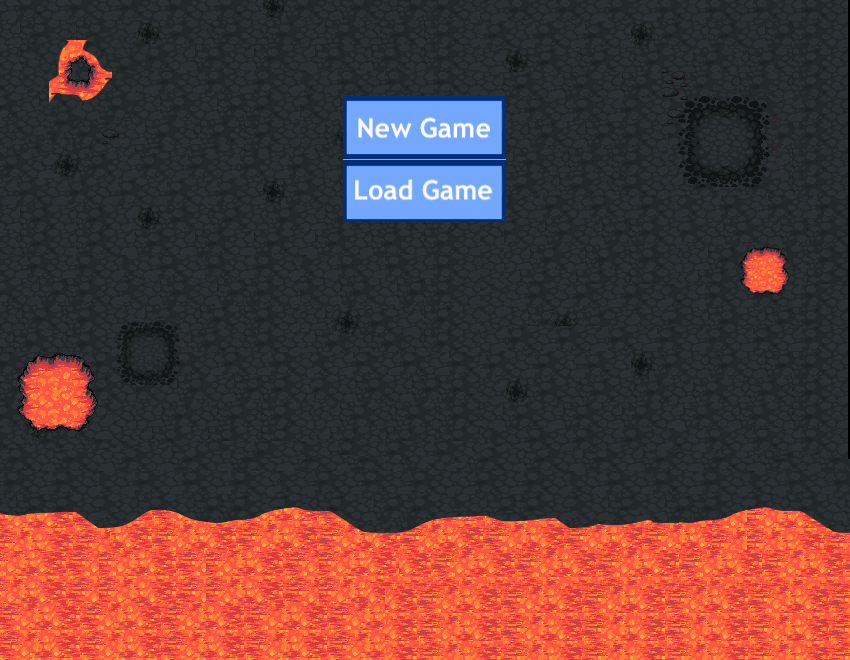
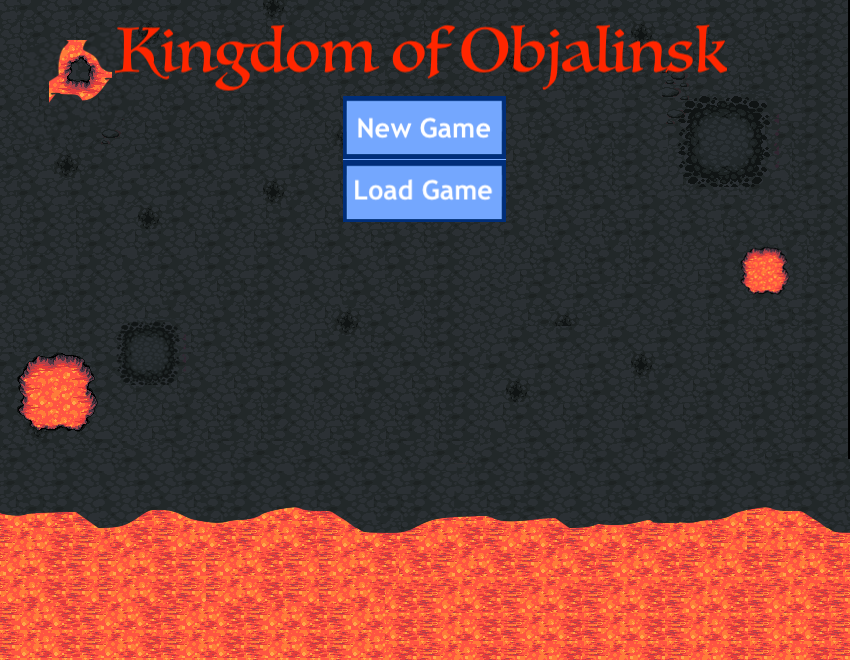
Added readme file

Changed region(s): [[0.1224, 0.0303, 0.8565, 0.1515]]

diff --git a/Hero_RPG_V3_Pygame/hero_rpg_pygame.py b/Hero_RPG_V3_Pygame/hero_rpg_pygame.py
@@ -32,7 +32,7 @@ def main():
     height = 670
     pygame.init()
     screen = pygame.display.set_mode((width, height))
-    pygame.display.set_caption('My Game')
+    pygame.display.set_caption('Kingdom of Objalinsk')
     clock = pygame.time.Clock()
 
     # ************* IMAGES *******************

diff --git a/Hero_RPG_V3_Pygame/readme.md b/Hero_RPG_V3_Pygame/readme.md
@@ -1,0 +1,86 @@
+# Hero RPG V3
+
+This game is a pygame version of my Hero RPG V2 text RPG game. https://github.com/Adrian-Jablonski/python-exercises/tree/master/Hero_RPG_V2
+
+## GamePlay:
+
+### 1. Main Menu:
+
+Start the game from the terminal and then click New Game. Create a new character by typing in a character name.
+
+To load a previous game, click Load Game and then select game to load by typing the game number.
+
+### 2. Characters:
+### a. Hero (Player) - Players character.  
+	- Special attack - generates 2x damage 20% of the time.
+### b. Goblin
+	- Special Attack - none
+### c. Medic	
+	- Special Attack - Heals itself the same amount as that turns attack 20% of the time
+### d. Shadow
+	- Special Ability - Only takes damage 10% of the time it is attacked
+### e. Wizard
+	- Special Attack - Freezes Hero for one move 20 % of the time not allowing Hero to run away or drink Tonic
+### f. Ranger
+	- Special Attack - Shoots two arrows in one move 20 % of the times
+### g. Zombie
+	- Special Ability - Does not die unless head is chopped off with a special axe
+### h. Dragon
+	- Special ability - Breathes fire 33% of the time and automatically kills it's enemies that do not have a special shield
+
+
+### 3. Controls:
+
+The game is played by left clicking on where you want the character to go or which enemy you want the character to attack. 
+Hovering over enemies will show you their stats. Hovering over the edge of the map will show you if it is possible to go to another section of the map.
+
+### 4. Fighting:
+
+### a. Combat Stances 
+###     i. Aggressive 
+        - Trains Power and Health.
+        - Adds a bonus to Power at the cost of Defense
+###     ii. Defensive 
+        - Trains Defense and Health
+        - Adds a bonus to Defense at the cost of Power
+###     iii. Normal 
+        - Trains all three skills
+        - Skill levels stay as they are
+
+### b. Long Range Attacking
+        - The wizard, ranger, and dragon are able to attack from long range
+
+### c. Auto Attacking
+        - Higher level enemies will automatically attack you if you are within their attack range
+
+### 5. Skill Levels:
+
+Skills are leveled up after reaching the next level experience. This game has an exponential leveling system.
+
+### 6. Bounty and enemy death:
+
+After killing an enemy you will receive coins. The amount of coins is based on each enemy character. Each enemy character can drop a range of coin amounts so the drop will not be the same each time the enemy is killed. 
+
+The enemy will respawn in a few seconds based on their respawn timer.
+
+### 7. Moving to another section of the map:
+
+You could move to another section of the map by moving the character to the edge of the map where there is an option to go to another section.
+
+### 8. Store, Inventory, and Equipment:
+
+### a. Store
+
+Items could be bought from the store by typing in the number of the item you would like to buy. Pressing 9 will exit the store.
+
+### b. Inventory
+
+The only inventory item for now is a healing potion which can heal 10 Health. It can be used during or after battles. Using it during battle may cost you a turn in the battle.
+
+### c. Equipment
+
+This is not set up yet but the equipment will give additional bonus's to Power and Defense.
+
+### 9. Hero Death:
+
+Upon hero death, you will lose most of your coins and all your inventory and equipment.
